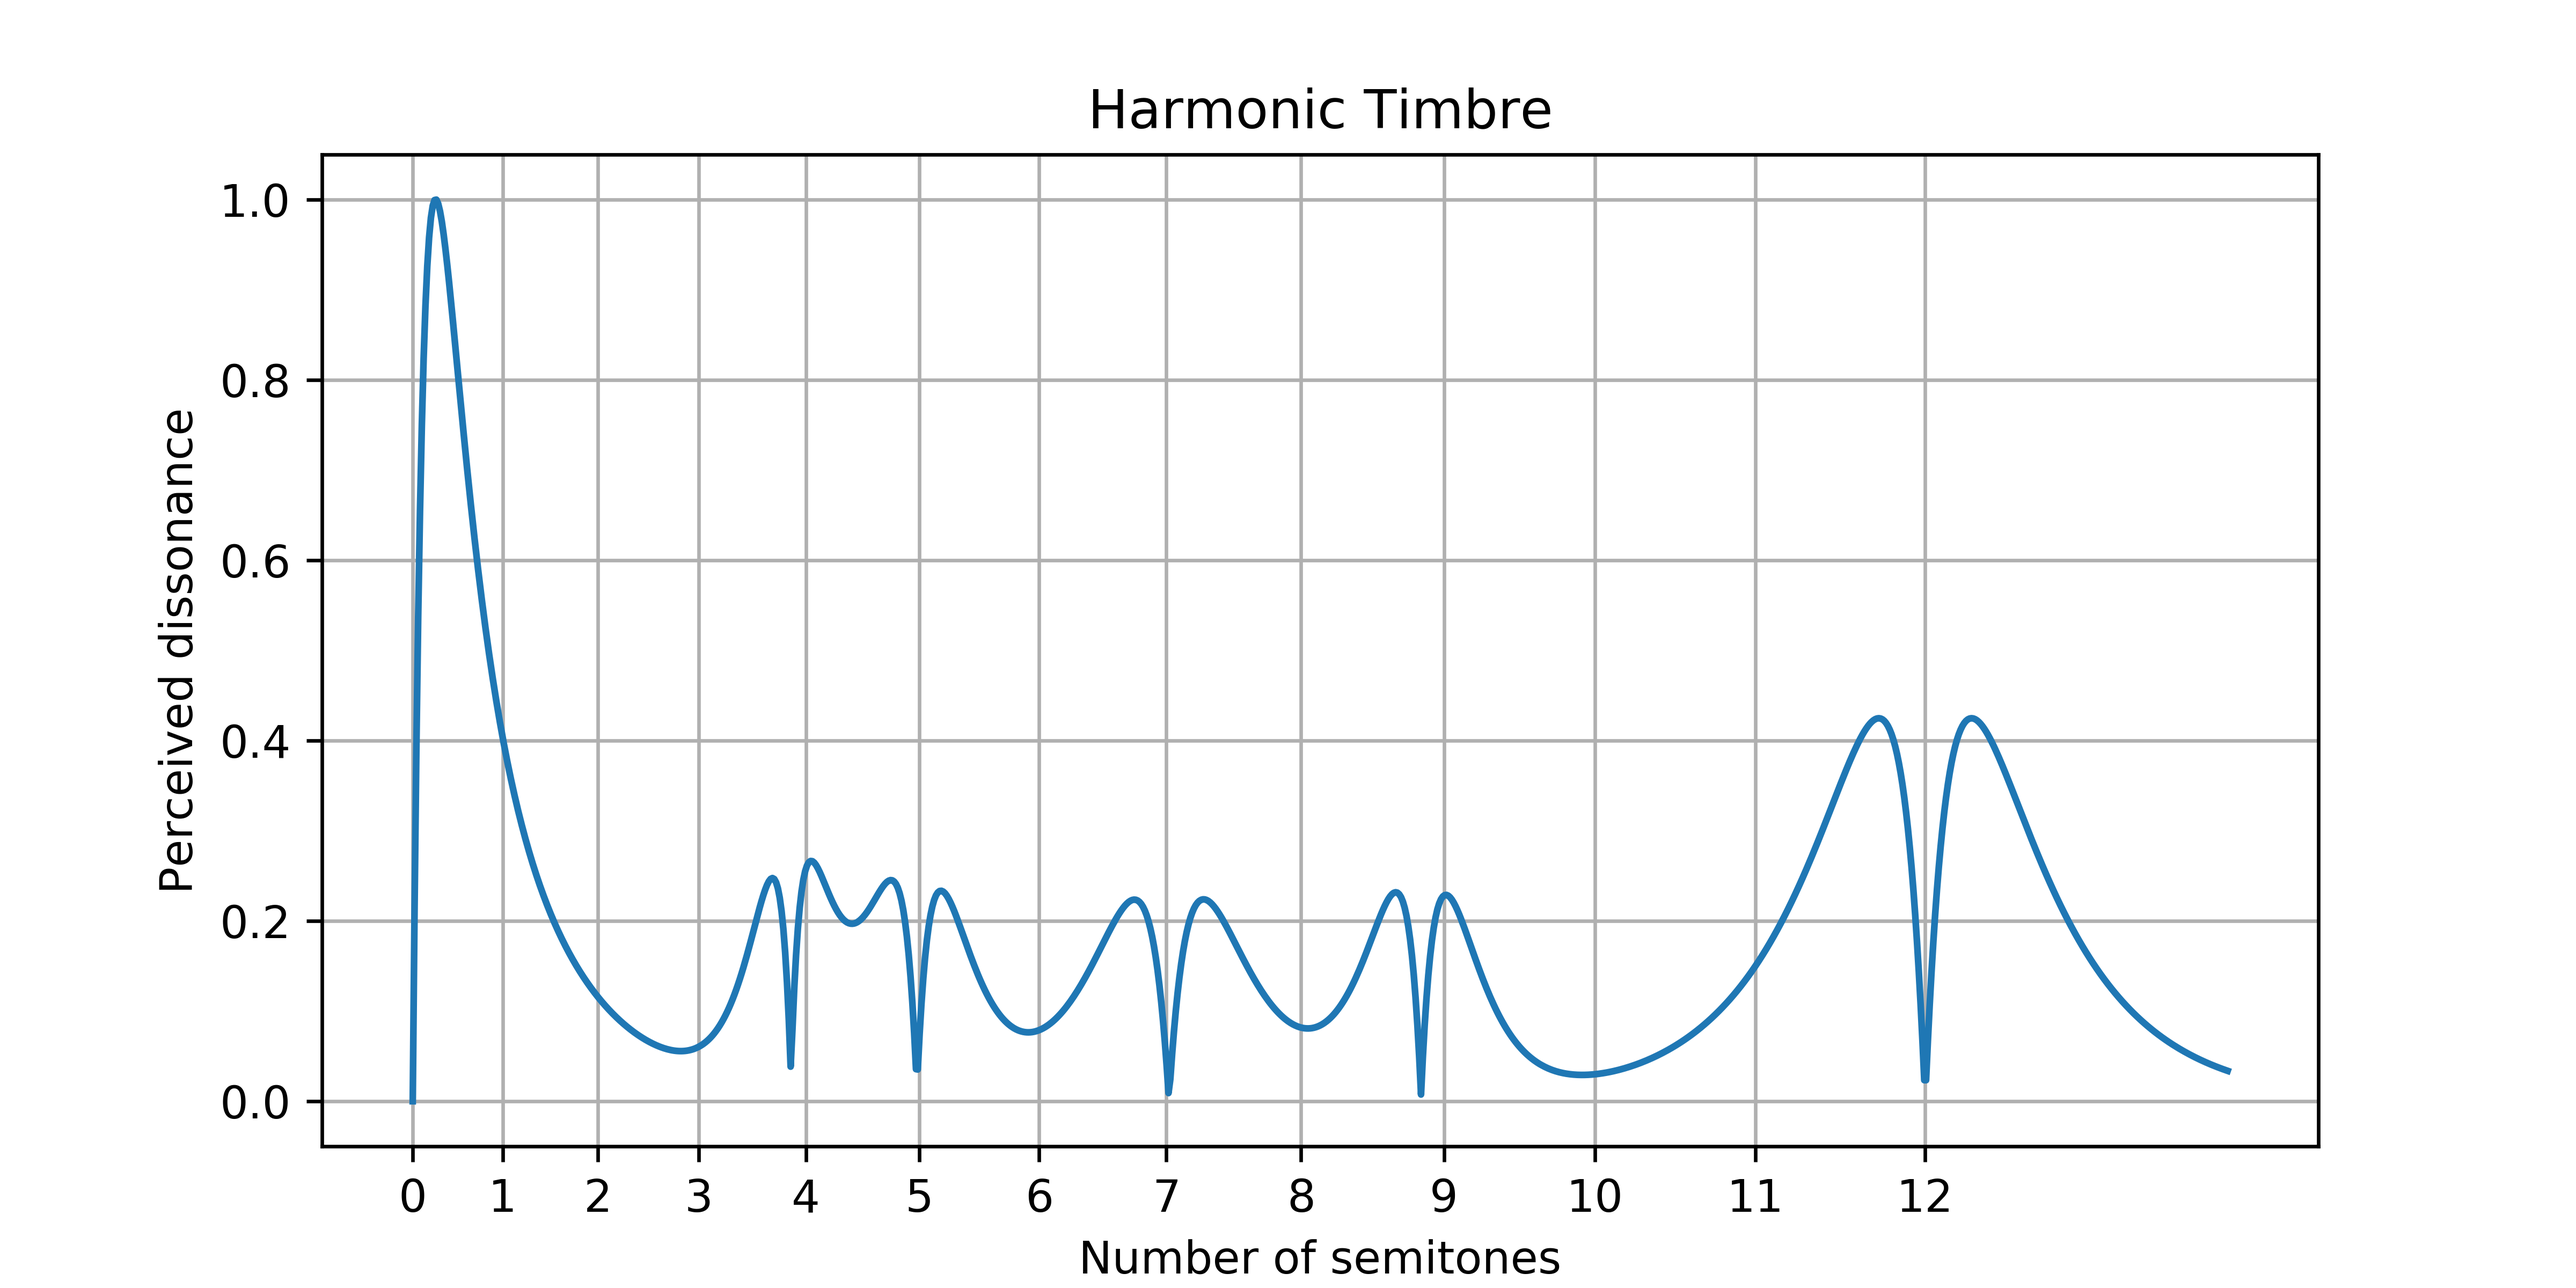
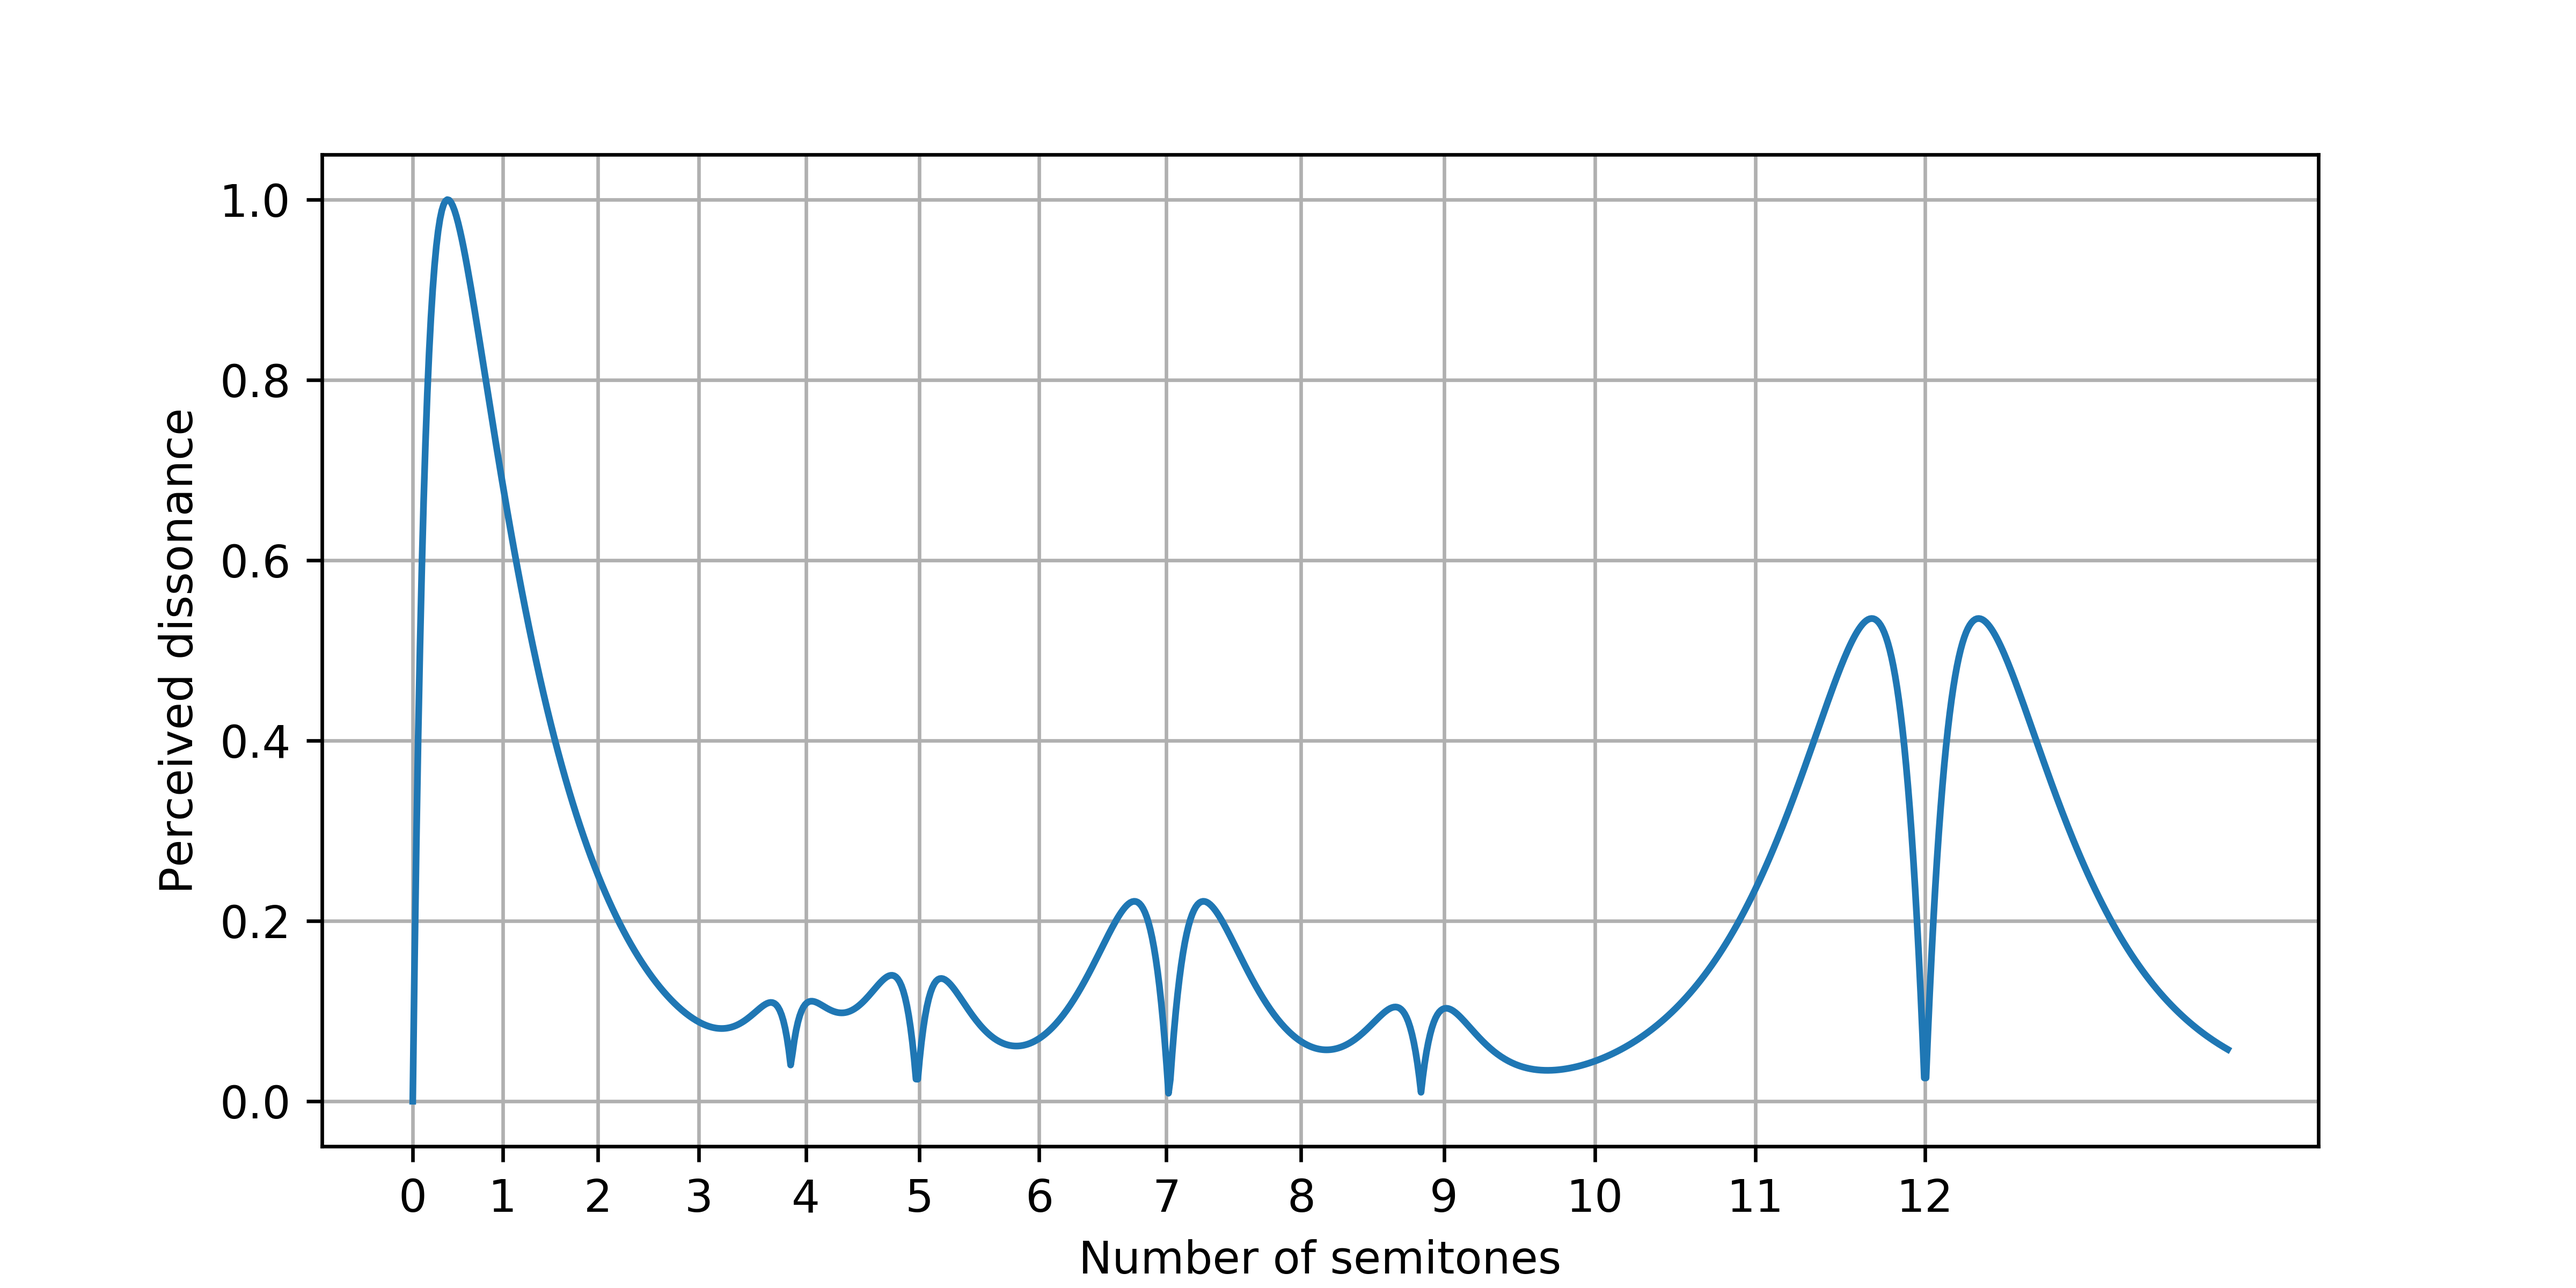
Update diss curves, create PL curve

diff --git a/code/plomplevelt_curve.py b/code/plomplevelt_curve.py
@@ -1,0 +1,27 @@
+"""
+
+    script to plot a plomp-levelt dissonance curve
+
+"""
+
+import numpy as np
+from matplotlib import pyplot as plt
+
+# CONSTANTS
+a = 3.5
+b = 5.75
+
+f0 = np.array([[440], [880], [440*4]])
+
+alpha = np.linspace(1., 2., 1000)
+d = np.exp(-a * ((alpha-1))) - np.exp(-b * ((alpha-1)))
+# d /= d.max()
+
+fig, ax = plt.subplots()
+
+ax.plot(alpha, d)
+ax.set_ylabel('Perceived dissonance')
+ax.set_xlabel('Interval')
+ax.grid()
+
+fig.savefig('../figs/plomplevelt.png', dpi = 400)

diff --git a/code/model/instruments.py b/code/model/instruments.py
@@ -10,6 +10,8 @@ import numpy as np
 
 from . import timbre
 
-HarmonicInst = timbre.Instrument((1, 2, 3, 4, 5), [1, 1, 1, 1, 1])
+r = 0.75
+amps = [r**i for i in range(5)]
+HarmonicInst = timbre.Instrument((1, 2, 3, 4, 5), amps)
 
-AharmInst = timbre.Instrument((1, np.sqrt(2), np.sqrt(5), np.sqrt(7), 1017./313.), (1, 1, 1, 1, 1))
+AharmInst = timbre.Instrument((1, np.sqrt(2), np.sqrt(5), np.sqrt(7), 1017./313.), amps)

diff --git a/code/harmonic_curves.py b/code/harmonic_curves.py
@@ -23,4 +23,4 @@ r = 0.88
 
 Harmonic = HarmonicInst(440)
 
-curves.dissonance_curve(Harmonic, '../figs/harmonic_dissonance_curve.png', title = 'Harmonic Timbre')
+curves.dissonance_curve(Harmonic, '../figs/harmonic_dissonance_curve.png', title = None)
